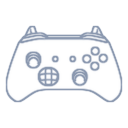
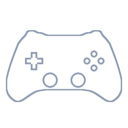
Players screen: player 1's controller shown beside the keyboard; empty cards without a brand
Player 1 always has the keyboard and may also have a controller, but the
card showed only the device used last: a controller assigned to player 1
was invisible while playing on keys. The card now shows both pictures side
by side (keyboard left, controller right), the one in use bright and the
other dimmed, and the name line gives the controller's name. X (Move)
already moved that controller; now it can be seen.

Empty cards showed a faint Xbox controller, read as "an Xbox controller
is waiting". tools/make_player_pictures.py generic() draws one of no brand:
the Xbox silhouette without its triggers, with a plain D-pad, four round
buttons and two sticks (the port's own drawing).

Changed region(s): [[0.1562, 0.1875, 0.8438, 0.7188], [0.9062, 0.5938, 0.9688, 0.625], [0.0312, 0.5938, 0.0938, 0.625]]

diff --git a/tools/make_player_pictures.py b/tools/make_player_pictures.py
@@ -5,7 +5,8 @@
 #
 # WHAT: the Players screen (src/players/players_setup.h) shows each player's
 # controller FILLED in that player's colour with a navy edge, a faint
-# controller on an empty card, a selection ring round a card and an opaque
+# controller of no brand on an empty card (the port's own drawing on the Xbox
+# silhouette, generic()), a selection ring round a card and an opaque
 # teal backing under each card's glass (the screen's design, 2026-10-29).
 # This script makes those PNGs from Xelu's controller outlines (CC0,
 # assets/prompts/controllers/*.png) into assets/prompts/controllers/players/.
@@ -89,6 +90,63 @@ def filled(name, colour, opacity=1.0, light_inside=False):
     return out.resize((w, h), Image.BOX)
 
 
+def generic(colour, opacity=1.0):
+    """A controller of NO brand (the empty cards' picture: a free player has
+    no controller yet, and the Xbox pad shown there read as "an Xbox
+    controller is waiting"). Only the SILHOUETTE comes from Xelu's Xbox
+    outline; the details are the port's own simple drawing: a D-pad cross,
+    four plain round buttons (no letters, no symbols) and two round sticks
+    placed side by side, like most generic gamepad icons; no triggers (the shoulder
+    buttons stay).
+
+    HOW: the body is found like in filled() (flood fill from the edge), then
+    blurred and cut at half (rounds off the bumpers' inner lines, which left
+    ragged bits on the shoulders), and its rim drawn as an even navy stroke
+    (the body minus itself eroded by ~1.5 px)."""
+    im = Image.open(SRC / "xbox.png").convert("RGBA")
+    w, h = im.size
+    big = im.resize((w * SCALE, h * SCALE), Image.LANCZOS)
+    a = np.asarray(big.getchannel("A").filter(ImageFilter.MaxFilter(3))).astype(float) / 255
+    barrier = Image.fromarray(((a > 0.5) * 255).astype(np.uint8))
+    pad = Image.new("L", (w * SCALE + 2, h * SCALE + 2), 0)
+    pad.paste(barrier, (1, 1))
+    ImageDraw.floodfill(pad, (0, 0), 128)
+    outside = np.asarray(pad)[1:-1, 1:-1] == 128
+    # No triggers: the two tips pointing up (rows 26-29 of the 128-pixel
+    # picture) are cut off; the shoulder buttons below them stay. (Cutting
+    # down to the body's top line, row 35, took the shoulders too: too bare.)
+    outside[: 30 * SCALE] = True
+    # The smoothed silhouette and its rim.
+    sil = Image.fromarray(((~outside) * 255).astype(np.uint8)).filter(ImageFilter.GaussianBlur(5))
+    sil = sil.point(lambda v: 255 if v > 127 else 0)
+    rim = np.asarray(sil).astype(float) - np.asarray(sil.filter(ImageFilter.MinFilter(13))).astype(float)
+    rim = np.asarray(Image.fromarray(rim.astype(np.uint8)).filter(ImageFilter.GaussianBlur(1.0))).astype(float) / 255
+    # The details, in 1x coordinates of the 128-pixel picture.
+    det = Image.new("L", (w * SCALE, h * SCALE), 0)
+    g = ImageDraw.Draw(det)
+    width = 7  # line weight at 4x (about the outlines' own)
+
+    def circle(cx, cy, r):
+        g.ellipse(((cx - r) * SCALE, (cy - r) * SCALE, (cx + r) * SCALE, (cy + r) * SCALE), outline=255, width=width)
+
+    cx, cy, arm, half = 34, 61, 9, 3.2  # D-pad: centre, arm length, half the arm's width
+    cross = [(cx - half, cy - arm), (cx + half, cy - arm), (cx + half, cy - half), (cx + arm, cy - half),
+             (cx + arm, cy + half), (cx + half, cy + half), (cx + half, cy + arm), (cx - half, cy + arm),
+             (cx - half, cy + half), (cx - arm, cy + half), (cx - arm, cy - half), (cx - half, cy - half)]
+    g.polygon([(x * SCALE, y * SCALE) for x, y in cross], outline=255, width=width)
+    for dx, dy in ((0, -7), (7, 0), (0, 7), (-7, 0)):  # the four buttons, a diamond
+        circle(94 + dx, 61 + dy, 3.4)
+    circle(50, 80, 7.5)  # the sticks
+    circle(78, 80, 7.5)
+    det = np.asarray(det.filter(ImageFilter.GaussianBlur(1.0))).astype(float) / 255
+    lines = np.maximum(rim, det)
+    body = np.asarray(sil.filter(ImageFilter.GaussianBlur(1.2))).astype(float) / 255
+    rgb = np.array(colour, float) * (1 - lines[..., None]) + NAVY * lines[..., None]
+    alpha = np.maximum(lines, body) * opacity
+    out = Image.fromarray(np.dstack([rgb, alpha * 255]).round().astype(np.uint8), "RGBA")
+    return out.resize((w, h), Image.BOX)
+
+
 def rounded(w, h, radius, fill=None, bands=()):
     """A rounded rectangle at 4x, averaged down: `fill` = a function of the
     row (0..1) giving RGBA, or `bands` = (inset, thickness, RGBA) outside-in."""
@@ -149,7 +207,7 @@ def main():
         for pad in PADS:
             filled(SOURCES.get(pad, pad), colour, light_inside=pad in LIGHT_INSIDE).save(
                 OUT / f"{pad}_p{p + 1}.png", optimize=True)
-    filled("xbox", (255, 255, 255), 0.5).save(OUT / "empty.png", optimize=True)
+    generic((255, 255, 255), 0.5).save(OUT / "empty.png", optimize=True)  # no brand: nobody has a controller yet
     navy = (0x14, 0x2F, 0x5E, 255)
     ring_colours = [(0xFD, 0xED, 0x06, 255)] + [c + (255,) for c in COLOURS]
     for i, c in enumerate(ring_colours):

diff --git a/src/options/options_menu.cpp b/src/options/options_menu.cpp
@@ -218,6 +218,9 @@ struct Screen {
     uint32_t back = 0, glass = 0, aura = 0, ring = 0, pic = 0, title = 0, info = 0, style = 0, left = 0, right = 0;
   };
   std::vector<PlyCard> ply_cards;
+  // Player 1's card: keys + controller side by side (options_page.cpp
+  // PlyPairKeys / PlyPairPad), instead of PlyPic0 while they have a controller.
+  uint32_t ply_pair_keys = 0, ply_pair_pad = 0;
   // Our copy of the panel's hinge, drawn over the cards (options_page.cpp
   // PlyHinge), and whether the game's own one (under player 1's card) is
   // hidden yet this visit (it goes on ply_hidden: back at Exit).
@@ -560,6 +563,8 @@ void FindElements(PPCContext& ctx, uint8_t* base) {
     c.right = FindPicture(ctx, base, g.page, fmt::format("PlyRight{}", k));
     g.ply_cards.push_back(c);
   }
+  g.ply_pair_keys = FindPicture(ctx, base, g.page, "PlyPairKeys");
+  g.ply_pair_pad = FindPicture(ctx, base, g.page, "PlyPairPad");
   g.ply_hinge = FindPicture(ctx, base, g.page, "PlyHinge");
   for (int i = 0; i < options_page::kPlyPrompts; ++i) {
     g.ply_prompt[size_t(i)] = FindText(ctx, base, g.page, fmt::format("PlyPrompt{}", i));
@@ -1206,6 +1211,12 @@ void ShowPlayersElements(uint8_t* base, bool shown) {
   }
   for (const uint32_t e : g.ply_prompt) scrooby::SetVisible(base, e, shown);
   scrooby::SetVisible(base, g.ply_hinge, shown);
+  // Player 1's pair: hidden with the rest, shown only by RefreshPlayers (and
+  // only while player 1 has a controller).
+  if (!shown) {
+    scrooby::SetVisible(base, g.ply_pair_keys, false);
+    scrooby::SetVisible(base, g.ply_pair_pad, false);
+  }
 }
 
 // While the screen is up the game's own prompts (FE_Buttons: Back...) and
@@ -1391,6 +1402,8 @@ void RefreshPlayers(Env& env) {
     const players_setup::ShownDevice* d = ShownDevice(boxes[size_t(k)], k);
     drawn += fmt::format("{}:{}:{}:{}:{};", d ? d->key : "", d ? d->picture : -1, boxes[size_t(k)].has_pad,
                          players_setup::PadIcons(k), boxes[size_t(k)].detected_style);
+    // Every device (player 1's card names its controller even on keys).
+    for (const players_setup::ShownDevice& m : boxes[size_t(k)].devices) drawn += m.key + ",";
   }
   if (drawn == g.ply_drawn) return;
   g.ply_drawn = drawn;
@@ -1467,6 +1480,48 @@ void RefreshPlayers(Env& env) {
     } else {
       info = tr(u"Press any button to join");
       colour = kPlyCyan;
+    }
+    // PLAYER 1 WITH A CONTROLLER (2026-11-05): the card showed only the device
+    // used last, so on keys a controller of player 1's was nowhere to be seen
+    // (nor that X moves it). Now both pictures, side by side: keys left, the
+    // controller right, the one in use bright and the other dimmed; the name
+    // line names the CONTROLLER (the keyboard tells itself). The same while a
+    // controller is pointed at player 1's card in a move: the one it would
+    // become, bright.
+    if (k == 0 && g.ply_pair_keys && g.ply_pair_pad) {
+      const players_setup::ShownDevice* pad = nullptr;
+      bool preview = false;  // a moved controller shown where it would go
+      if (dropping && selected && players_setup::CanMoveTo(0)) {
+        for (const players_setup::ShownDevice& m : boxes[size_t(mover)].devices) {
+          if (!m.keyboard) {
+            pad = &m;
+            preview = true;
+            break;
+          }
+        }
+      }
+      if (!pad && !(dropping && selected)) {
+        for (const players_setup::ShownDevice& m : b.devices) {
+          if (!m.keyboard) {
+            pad = &m;
+            break;
+          }
+        }
+      }
+      const bool pair = pad != nullptr && !(styling && !faces.empty());
+      scrooby::SetVisible(base, g.ply_pair_keys, pair);
+      scrooby::SetVisible(base, g.ply_pair_pad, pair);
+      if (pair) {
+        picture = players_setup::kPicEmpty;  // (PlyPic0 hidden below)
+        scrooby::SetFrame(ctx, base, g.ply_pair_keys, uint32_t(players_setup::kPicKeyboard));
+        scrooby::SetFrame(ctx, base, g.ply_pair_pad, uint32_t(pad->picture));
+        constexpr uint8_t kDim = 0x70;
+        const bool keys_in_use = !preview && prompt_icons::KeysLookFor(0);
+        scrooby::SetAlpha(ctx, base, g.ply_pair_keys, keys_in_use ? 0xFF : kDim);
+        scrooby::SetAlpha(ctx, base, g.ply_pair_pad, keys_in_use ? kDim : 0xFF);
+        if (!preview && k != mover) info = Utf16(pad->name);
+      }
+      scrooby::SetVisible(base, c.pic, !pair);
     }
     scrooby::SetFrame(ctx, base, c.pic, uint32_t(picture));
     scrooby::SetText(ctx, base, c.info, info);

diff --git a/src/options/options_page.cpp b/src/options/options_page.cpp
@@ -288,6 +288,9 @@ std::vector<Bytes> PlayersSprites(Parts* parts) {
 //   PlyRing<k>      the selection ring round it (frames: yellow = selected,
 //                   players 1-4's colours = the controller being moved)
 //   PlyPic<k>       the device picture (frames: players_setup.h Picture)
+//   PlyPairKeys / PlyPairPad  player 1's card only: the keyboard and the
+//                   controller side by side (options_page.h kPlyPair*),
+//                   shown instead of PlyPic0 while player 1 has a controller
 //   PlyAura<k>      the glow of the player's colour from the card's outer
 //                   corner (over the glass; players_setup.h AuraName)
 //   PlyTitle<k>     the player's number, big, in that corner
@@ -329,6 +332,16 @@ void AddPlayersCards(const Parts& p, std::vector<Node>& elements) {
         !picture(fmt::format("PlyPic{}", k), players_setup::PictureFrames(k), x + (kPlyCardW - kPlyPicSide) / 2,
                  top - kPlyPicCentre[k / 2] - kPlyPicSide / 2, kPlyPicSide, kPlyPicSide, 0xFFFFFFFF)) {
       return;
+    }
+    if (k == 0) {  // player 1's pair (keys left, controller right)
+      const int cx = x + kPlyPairCentreX, cy = top - kPlyPicCentre[0];
+      const int y0 = cy - kPlyPairSide / 2;
+      if (!picture("PlyPairKeys", players_setup::PictureFrames(0), cx - kPlyPairGap / 2 - kPlyPairSide, y0,
+                   kPlyPairSide, kPlyPairSide, 0xFFFFFFFF) ||
+          !picture("PlyPairPad", players_setup::PictureFrames(0), cx + kPlyPairGap / 2, y0, kPlyPairSide,
+                   kPlyPairSide, 0xFFFFFFFF)) {
+        return;
+      }
     }
     for (int side = 0; side < 2; ++side) {
       Node a = p.arrow;

diff --git a/src/options/options_page.h b/src/options/options_page.h
@@ -146,6 +146,15 @@ constexpr int kPlyInfoTop[2] = {100, 6};    // the name line's box top
 constexpr int kPlyStyleTop[2] = {122, 28};  // the button pictures line (PlyStyle)
 constexpr int kPlyNumberCentreY[2] = {30, 124};  // the number's centre
 constexpr int kPlyNumberInset = 30;         // its centre, from the card's outer side
+// PLAYER 1'S PAIR (2026-11-05): player 1 always has the keyboard and mouse,
+// and may have a controller too; with one, the card shows BOTH pictures side
+// by side (keys left, controller right; the one in use bright, the other
+// dimmed) instead of the single centred one, so a controller on player 1
+// can be seen while playing on keys. Smaller boxes, centred a little right
+// of the card's middle: the big "1" sits in the card's top left corner.
+constexpr int kPlyPairSide = 66;     // each picture's box (square)
+constexpr int kPlyPairGap = 6;       // between the two boxes
+constexpr int kPlyPairCentreX = 124; // the pair's centre, from the card's left
 constexpr int kPlyArrowSide = 28;    // the chooser's arrows, beside the picture
 constexpr int kPlyArrowInset = 26;   // from the card's left / right edge
 constexpr int kPlyPrompts = 4;       // the prompt row: up to four

diff --git a/docs/findings/26-more-local-players.md b/docs/findings/26-more-local-players.md
@@ -2380,3 +2380,30 @@ Tested with a fake controller for player 2 and the scripted one for player
 unplugged (`p2.unplug`), the box offers the take-over, player 1's START
 gives states `1 2` (player 1 the mask) and then `2 0` within 0.1 s; player
 1 walks; no errors.
+
+## 59. Player 1's card shows the keyboard AND the controller
+
+Player 1 always has the keyboard and mouse, and may have a controller as
+well. The card used to show one device: the one used last. Playing on keys,
+a controller assigned to player 1 was nowhere on the screen, so there was no
+way to tell it was there, or that X (Move) could hand it to someone else.
+
+Now, while player 1 has a controller, the card shows both pictures side by
+side: the keyboard on the left, the controller on the right (two smaller
+picture elements, `PlyPairKeys` / `PlyPairPad`, built only on player 1's card
+by `options_page.cpp`, centred a little right of the middle because the big
+"1" sits in the top left corner). The device in use is drawn at full
+strength, the other dimmed (alpha 0x70), and they swap as soon as the other
+one is used. The name line names the controller (the keyboard picture
+speaks for itself). Without a controller the card is as before: one centred
+keyboard picture, "Keyboard and Mouse". During a move onto player 1, the
+pair shows the incoming controller at full strength. Code:
+`options_menu.cpp` `RefreshPlayers` (the pair block before the card's
+picture frame is set).
+
+Checked by the debug console with a fake PlayStation controller set to
+player 1 in a copy of the controls file (pause menu, in a level): on keys
+the keyboard was bright and the controller dim, with the controller's name;
+a trigger press on the controller swapped them; X, right showed "Moving to
+Player 2" with the controller on player 2's card; A moved it, and player 1's
+card went back to the single keyboard picture. 0 errors.

diff --git a/assets/prompts/README.md b/assets/prompts/README.md
@@ -16,7 +16,7 @@ you, Xelu! Not game data.
 | `ps4/` | PS4 (Xelu's "Others") | Controller Icons: PlayStation 4 (Automatic: other Sony pads) |
 | `switch/` | Switch | Controller Icons: Switch (Automatic: Nintendo pads) |
 | `controllers/` | the whole-controller outlines (Xbox, PS5, PS4, Switch; `switch-apart.png` = the pack's Switch_Controllers_Separate, the two Joy-Cons apart, used for the Switch cards) and the keyboard + mouse picture | the Players screen's device pictures |
-| `controllers/players/` | made from `controllers/` by `tools/make_player_pictures.py`: each controller filled in a player's colour with a navy edge, a faint "empty" one; plus the selection rings and the cards' backing (simple rounded rectangles drawn by that script, not from the pack) | the Players screen (`src/players/players_setup.h`) |
+| `controllers/players/` | made from `controllers/` by `tools/make_player_pictures.py`: each controller filled in a player's colour with a navy edge, a faint "empty" one of no brand (the Xbox silhouette with the port's own D-pad, plain round buttons and sticks drawn on it); plus the selection rings and the cards' backing (simple rounded rectangles drawn by that script, not from the pack) | the Players screen (`src/players/players_setup.h`) |
 
 Only the pictures the game's prompts need are here (one 100 x 100 PNG per
 key or button, unchanged). The port draws them into the game's own prompt
